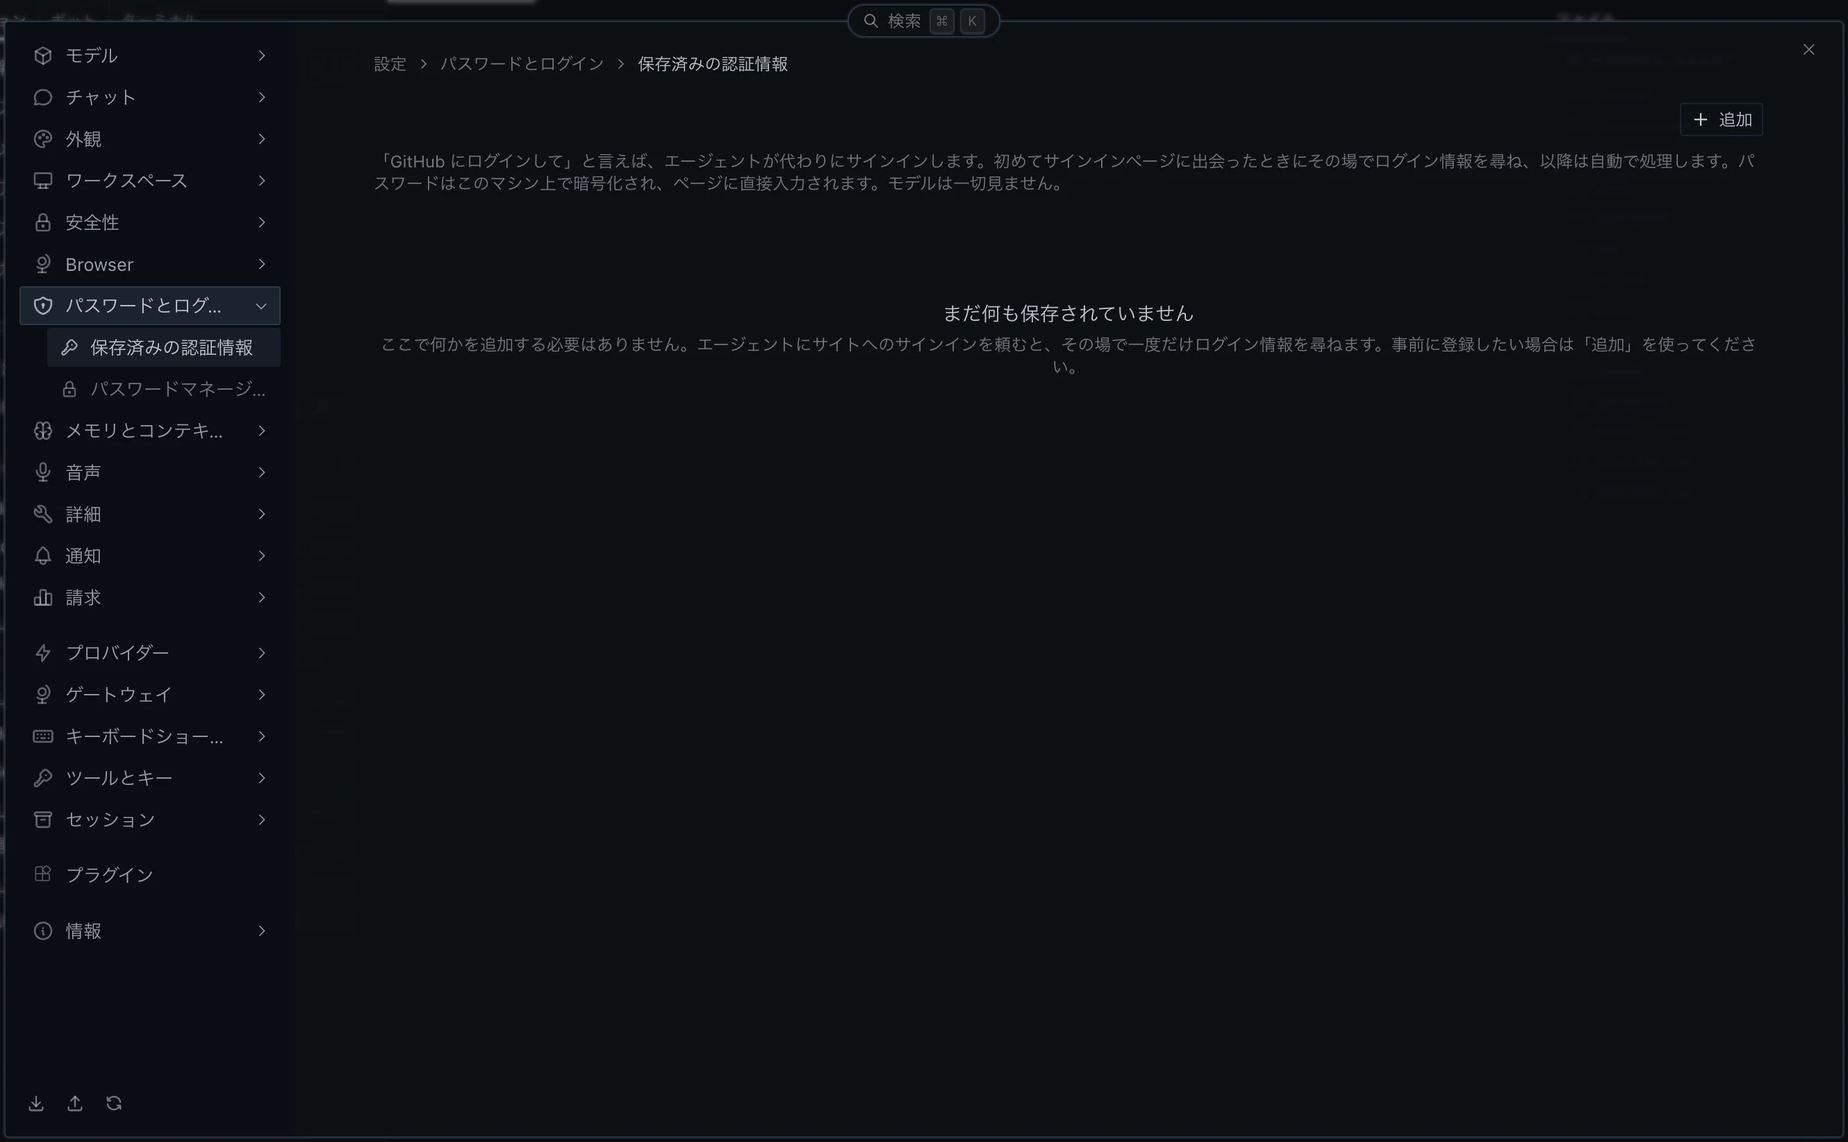
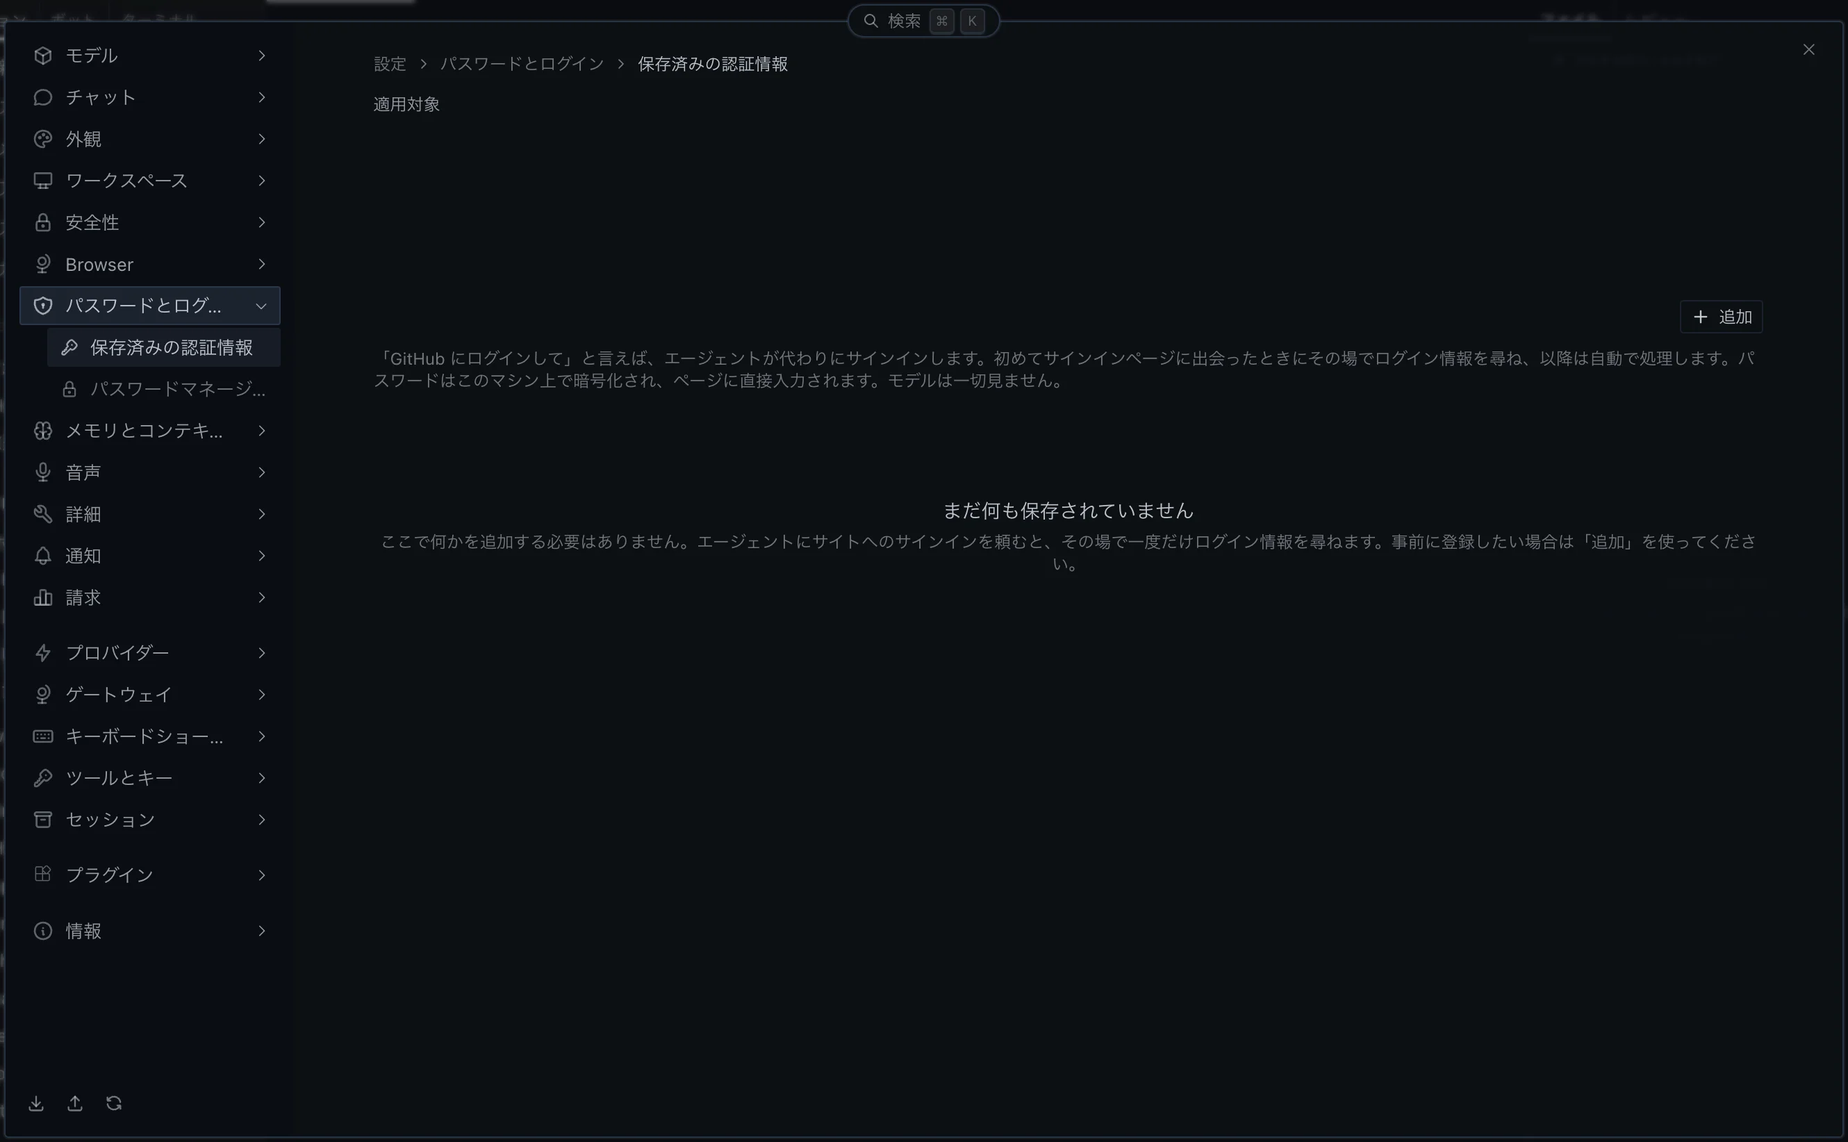
docs(content): v0.23.0 監査の未確認項目を実機で補完
- 接続先をこのマシンのゲートウェイへ切り替えて「Web アクセス」を撮影し、
  ページに画像を追加。初期の公開方法（このネットワーク）と開始前の表示を実機で確定
- 保存済みの認証情報のスクリーンショットを v0.23.0 で撮り直し
- cron の新規作成フォームを撮影し、「見逃した実行」の所在を実機で確認
- 「自分のスキルを作る」はデスクトップのカタログがオプションスキルを含むことを
  ソースで確認し、status を verified に戻した
- 調査根拠と索引の注記、スクリーンショット一覧を更新

diff --git a/src/assets/screenshots/manifest.md b/src/assets/screenshots/manifest.md
@@ -5,7 +5,8 @@ v0.23.0 の Retina 実機キャプチャ（原寸 3600x2338）から切り出し
 （原寸の `[80, 88, 2920, 1888]`、2840x1800 px）。ユーザー固有の値を背景色の単色矩形でマスクし、
 `scripts/hermes-audit/crop_mask.py` で `cwebp -q 85` の WebP にした。幅は 2x のまま（表示時は CSS で 1x 相当に縮める前提）。
 
-`settings-passwords.webp` だけは v0.22.1 の撮影のまま（理由は判断メモ）。
+`settings-passwords.webp`・`settings-web-access.webp`・`cron-new-job.webp` は翌日（2026-11-08 朝）の追加撮影。
+Web アクセスはこのマシンのゲートウェイへ切り替えて撮った（理由は判断メモ）。
 
 | 出力ファイル | 元画像 | 写っている画面 | マスクした箇所 | 推奨 alt テキスト |
 |---|---|---|---|---|
@@ -19,7 +20,8 @@ v0.23.0 の Retina 実機キャプチャ（原寸 3600x2338）から切り出し
 | settings-workspace.webp | 05_workspace_a_0.png | 設定 > ワークスペース > プロジェクトと検出 | 適用対象のチップ一式、作業ディレクトリの絶対パス | 設定のワークスペース画面 |
 | settings-security.webp | 06_safety_a_0.png | 設定 > 安全性 > 承認（承認モード・タイムアウト・MCP 再読み込み・コマンド許可リスト） | 適用対象のチップ一式、コマンド許可リストの値 | 設定の安全性画面 |
 | settings-browser.webp | 07_browser_a_0.png | 設定 > Browser > ブラウザープロファイル（Use My Real Browser Profile） | 適用対象のチップ一式 | 設定の Browser 画面 |
-| settings-passwords.webp | 07v_vault_a_0.png（v0.22.1） | 設定 > パスワードとログイン > 保存済みの認証情報（未保存の空表示） | なし | 設定のパスワードとログイン画面 |
+| settings-passwords.webp | 07v_vault_a_0.png（追加撮影） | 設定 > パスワードとログイン > 保存済みの認証情報（未保存の空表示） | 適用対象のプロファイルチップ一式 | 設定のパスワードとログイン画面 |
+| settings-web-access.webp | 15_webaccess_0.png（追加撮影） | 設定 > Web アクセス（停止中、公開方法「このネットワーク」、開始ボタンは Nous 未サインインで無効） | 説明文と URL 行の LAN アドレス | 設定の Web アクセス画面 |
 | settings-passwords-managers.webp | 07v_vault_b_0.png | 設定 > パスワードとログイン > パスワードマネージャー（1Password / Bitwarden の検出状態） | 適用対象のチップ一式（検出状態は環境依存） | 設定のパスワードマネージャー連携画面 |
 | settings-memory-context.webp | 08_memory_a_0.png | 設定 > メモリとコンテキスト > 永続メモリ | 適用対象のチップ一式 | 設定のメモリとコンテキスト画面 |
 | settings-voice.webp | 09_voice_a_0.png | 設定 > 音声 > 音声会話（Voice Chat Mode・GPT-Live Voice・GPT-Live Persona など） | 適用対象のチップ一式、GPT-Live Voice の選択値（既定の `marin` ではない）、GPT-Live Persona の入力文 | 設定の音声画面 |
@@ -43,6 +45,7 @@ v0.23.0 の Retina 実機キャプチャ（原寸 3600x2338）から切り出し
 | main-sidebar.webp | 50_main_0.png | メイン画面（セッションタブ・左サイドバー・右ペインのファイル） | タブバーのセッション名（既定名は残した）、ピン留め、プロジェクト内のセッション名と日数、プロジェクト名一覧、右ペインのルート名、コンポーザーのモデル選択値、ステータスバーの接続名とワークスペース名 | Hermes Desktop のメイン画面とサイドバー |
 | bots-tab.webp | 51_bots_0.png | メイン画面 ボットタブ（グループチャット一覧・ボット名簿） | グループチャット名・状態文・日数、ゲートウェイ見出しの名前、ボット名簿（アバターと名前）、タブバーのセッション名、右ペインのルート名、モデル選択値、ステータスバーのワークスペース名 | Hermes Desktop のボットタブ |
 | bots-menu.webp | 51_bots_menu_0.png | ボットタブの「+」メニュー（新しいボット／グループチャット／セクション） | bots-tab と同じ箇所 | ボットタブの追加メニュー |
+| cron-new-job.webp | 52_cron_new_0.png（追加撮影） | 新しい Cron ジョブのフォーム（開始点・名前・プロンプト・頻度・配信先・モデル・見逃した実行）。フォームだけを切り出し | なし（ジョブ 0 件のローカルゲートウェイで撮影。保存はしていない） | 新しい Cron ジョブのフォーム |
 | cron-jobs.webp | 52_cron_0.png | スケジュール済みジョブ（ジョブ一覧・詳細・ブループリント一覧） | ジョブ名一覧と検索欄の例示ジョブ名、プロンプト本文、実行履歴、背面のタブバー・サイドバー端・ステータスバー（ジョブ件数とブループリント名は残した） | スケジュール済みジョブの画面 |
 | skills-tools.webp | 53_skills_0.png | スキルとツール > スキル（スキル一覧・詳細） | Configuring の対象名、セッション一覧、右ペインのルート名、ステータスバー（組み込みスキル名は残した） | スキルとツールの画面 |
 | skills-toolset.webp | 57_cap_toolset_0.png | スキルとツール > ツールセット（ツールセットカードと Developer Mode） | Configuring の対象名、呼び出し回数 2 件、セッション一覧、右ペインのルート名、ステータスバー | ツールセットの画面 |
@@ -56,8 +59,10 @@ v0.23.0 の Retina 実機キャプチャ（原寸 3600x2338）から切り出し
 - 設定項目のラベル・説明文・既定値・ボタン・タブ名・サブページ名、公開サービス名（プロバイダー名・プラットフォーム名・
   Connectors のアプリ名・カタログのプラグイン名）、ツールセット名、組み込みスキル名、ブループリント名は残した。
 - 適用対象のチップはプロファイル名（ユーザー値）なので、先頭のチップを含めチップ行全体を背景色で塗った。
-- `settings-passwords.webp` は今回の撮影（`07v_vault_a` / `07v_vault_b` とも）がパスワードマネージャー画面で、
-  保存済みの認証情報画面の写真が無かったため差し替えていない。
+- `settings-passwords.webp` は初回の撮影（`07v_vault_a` / `07v_vault_b` とも）がパスワードマネージャー画面だったため、
+  翌朝に撮り直した。
+- 「Web アクセス」はリモートゲートウェイ接続中はナビに出ないため、接続先を一時的に「This device」へ切り替えて撮り、撮影後に戻した。
+  開始ボタンは押していない。
 - `settings-providers.webp` は `_0` が読み込み中のスケルトンだったため `_1` を使った。`settings-archived-chats.webp` も同じ理由で `_1`。
 - `settings-models-subagents.webp` は `_0` に適用対象チップが残り下端に macOS の音量表示が写っていたため、チップの無い `_1`
   を使い、下端の明るさ表示を背景色で塗った。

diff --git a/vault/06_リファレンス/02_バージョンと調査根拠.md b/vault/06_リファレンス/02_バージョンと調査根拠.md
@@ -40,7 +40,7 @@ verified: '2026-11-08'
 1. **バージョン・コミットの確定**: ソースチェックアウトの git で HEAD が `2bd378ed` であり、タグ `v0.23.0` がこのコミットを直接指すことを確認した（タグより先行するコミットはない）。前回の `297552a9` からは 8,181 コミット進んでいる。実機のステータスバーの表示「クライアント v0.23.0 / バックエンド v0.23.0」と、情報画面の Commit 表示で版の一致を確かめた。
 2. **差分監査の範囲**: `git diff 297552a9..2bd378ed` を、設定サイドバーとモデル・プロバイダー / 外観・メモリ・Browser・セッション / ゲートウェイ・キーボードショートカット・通知・請求・情報・プラグイン / メイン UI・グループチャット・cron・プラグインの自動更新・有料 MCP ツール / 本ガイド各ページの陳腐化しうる記述、の観点に分けて照合した。対象はデスクトップのソース（`apps/desktop/src/`）、日本語翻訳（`apps/desktop/src/i18n/` 配下。今回 `ja.ts` から画面別のファイルへ一部分割された）、既定値定義、コマンドレジストリ、ツール用の環境変数カタログ。あわせて公式リリースノート（`v0.23.0`）を参照し、ノートの記述とソース・実機が食い違う箇所はソース・実機を優先した（例: リリースノートにある `/delegation` コマンドはコアのコマンドレジストリに無い）。
 3. **既定値とコマンドの機械比較**: 前回と同様、`DEFAULT_CONFIG` を AST で安全に評価して JSON 化した値を前回値と機械比較した。`_config_version` は `51` から `52` に上がり、差分は値変更 2 件（`_config_version` と `sessions.auto_prune`）・削除 13 件（`browser.backend` / `browser.camofox.*` / `browser.extension_control.*` など、すべて `browser.*`）・追加 33 件（`webapp.*`・`delegation.backend`・`vault.key_storage`・`worktrees.*` など）。スラッシュコマンドは `COMMAND_REGISTRY` の抽出で 102 件 → 105 件（追加 3・削除 0・変更 1）を確定した。ツールとキーの一覧の元になる環境変数カタログからは `AGENT_BROWSER_ENGINE` / `CAMOFOX_API_KEY` / `CAMOFOX_URL` が外れた（新旧 2 コミットの定義を比較）。
-4. **実機スクリーンショットの照合**: 実機（v0.23.0、日本語 UI、macOS）で、設定サイドバーに表示された全画面のサブページと、メイン画面・ボット・スケジュール済みジョブ・スキルとツールの 4 タブ・メッセージング・アーティファクト・カンバンを撮影し（約 350 枚）、ソース差分の主張と照合した。主な食い違いは 2 件で、どちらも実機を正とした（メインナビはカンバンを含む 6 項目 / プラグインの tier 表示は英語「Official / Verified / Community」のまま）。撮影時はリモートゲートウェイに接続していたため、**「Web アクセス」画面はナビに出ず撮影できなかった**（ソースの表示条件どおり）。この画面の記述は同一コミットのソース（画面定義・日本語ラベル）に基づく。ほかに状態依存で写っていないのは、サブエージェントの既定値が操作できなくなる表示（ルーティングが既定以外のとき）、cron の「停止」「見逃した実行」、インストールダイアログの tier バッジ、使用量バーの黄色の段階、Webapp 専用の「ブラウザー通知」、保存済みの認証情報の一覧。これらもソースのみに基づく。
+4. **実機スクリーンショットの照合**: 実機（v0.23.0、日本語 UI、macOS）で、設定サイドバーに表示された全画面のサブページと、メイン画面・ボット・スケジュール済みジョブ・スキルとツールの 4 タブ・メッセージング・アーティファクト・カンバンを撮影し（約 350 枚）、ソース差分の主張と照合した。主な食い違いは 2 件で、どちらも実機を正とした（メインナビはカンバンを含む 6 項目 / プラグインの tier 表示は英語「Official / Verified / Community」のまま）。初回の撮影はリモートゲートウェイに接続していたため、「Web アクセス」画面はナビに出なかった（ソースの表示条件どおり）。翌日（2026-11-08）に接続先をこのマシンのゲートウェイへ切り替えて、Web アクセス（停止中）、保存済みの認証情報、cron の新規作成フォーム（「見逃した実行」を含む）を追加で撮影した。状態依存で写っていないのは、Web アクセスの開始後の表示、サブエージェントの既定値が操作できなくなる表示（ルーティングが既定以外のとき）、cron の「停止」（実行中のジョブが必要）、インストールダイアログの tier バッジ、使用量バーの黄色の段階、Webapp 専用の「ブラウザー通知」。これらはソースのみに基づく。
 5. **設定画面構成の監査結果**: 設定サイドバーは **19 画面から 20 画面**に変わった。新設は「Web アクセス」（このマシンの Hermes を Webapp としてブラウザーへ配信する）の 1 画面で、ゲートウェイの直後に入る。デスクトップアプリで接続モードが「リモートゲートウェイ」以外のときだけ表示される。「サブエージェント」の子項目は「詳細」から「モデル」へ移り（詳細の子項目は 5 つになった）、ゲートウェイの子項目「このウィンドウ」は「プライマリゲートウェイ」に改名された。20 画面の内訳は、9 つの設定セクション（モデル、チャット、外観、ワークスペース、安全性、Browser、メモリとコンテキスト、音声、詳細）と 11 の独立画面（パスワードとログイン、通知、請求、プロバイダー、ゲートウェイ、Web アクセス、キーボードショートカット、ツールとキー、セッション、プラグイン、情報）である。
 
 ### v0.22.1 監査（2026-10-15）の方法と範囲

diff --git a/vault/03_設定/21_Webアクセス.md b/vault/03_設定/21_Webアクセス.md
@@ -25,8 +25,9 @@ verified: '2026-11-08'
 
 画面の説明文にあるとおり、**サインインした人はこのコンピューターでコマンドを実行できる**。配信するのは自分だけが使う端末・ネットワークに限る。
 
-> [!note] 画面はソースに基づく説明
-> このページの画面表示は、Hermes Desktop のソースコード（設定画面の実装と日本語リソース）に基づいて書いている。実機の画面写真は掲載していない。
+![設定 > Web アクセス 画面](@screenshots/settings-web-access.webp)
+
+停止中の画面。LAN 上のアドレスはマスクしている。開始後の表示（実行中の状態や「停止」ボタン、「独自の URL」の入力欄）は実機では未確認で、ソースコードに基づいて書いている。
 
 ## 表示される条件
 
@@ -39,16 +40,16 @@ verified: '2026-11-08'
 
 ## 画面の構成
 
-上から順に次の要素が並ぶ。
+冒頭に「スマートフォンや別のコンピューターから、Nous アカウントでサインインしてこのコンピューターの Hermes を開きます。サインインした人はこのコンピューターでコマンドを実行できます。」という説明があり、その下に次の要素が並ぶ。
 
 | 要素 | 内容 |
 |---|---|
-| 状態 | 実行中 / 停止中 / 起動中 / 停止処理中 / 再起動が必要 / 利用できません のいずれか |
-| アドレス | 配信中は、ほかのデバイスで開く URL がリンクとして表示される |
-| 公開方法 | 「このネットワーク」と「独自の URL」の切り替え（後述） |
+| Web アクセス（状態） | 見出しの右に状態のバッジ。実行中 / 停止中 / 起動中 / 停止処理中 / 再起動が必要 / 利用できません のいずれか |
+| 公開方法 | 「このネットワーク」と「独自の URL」の切り替え（後述）。初期の選択は「このネットワーク」 |
+| アドレス | ほかのデバイスで開く URL。「このネットワーク」では、このコンピューターの LAN アドレスとポート 9120 の `http://` URL が開始前から表示され、配信中はリンクになる |
 | 操作ボタン | 開始 / 停止。設定を保存したがゲートウェイの再起動が済んでいないときは「ゲートウェイを再起動」 |
 
-開始の前提が満たされていないときは、「先に『プロバイダー』で Nous アカウントにサインインしてください。」と表示される。
+開始の前提が満たされていないときは、アドレスの下に「先に「プロバイダー」で Nous アカウントにサインインしてください。」と表示され、「開始」は押せない。
 
 ### 公開方法
 

diff --git a/vault/11_実践レシピ/04_スケジュール自動化.md b/vault/11_実践レシピ/04_スケジュール自動化.md
@@ -107,7 +107,11 @@ AIへのプロンプトを持たず、スクリプトだけを実行するジョ
 アプリやゲートウェイが止まっていた間に実行時刻を過ぎた繰り返しジョブは、既定では再開後に追いかけて実行されます（`cron.catch_up_missed: true`）。ジョブごとに変えたいときは、ジョブの作成・編集フォームの「見逃した実行」（説明「Hermes が動いていない間に見逃した実行の扱い。」）で「既定の設定に従う」「復帰時に1回だけ実行」「スキップする」から選びます。CLI では `--catch-up on|off` です。
 
 > [!note] 確認状況
-> 「停止」と「見逃した実行」は、デスクトップアプリのソース（`apps/desktop/src/app/cron/` と日本語リソース `ja_cron_control.ts`）で確認した内容です。実機では実行中のジョブと編集フォームを撮影していません。
+![新しい Cron ジョブのフォーム](@screenshots/cron-new-job.webp)
+
+「見逃した実行」は、作成フォームの「モデル」の下にあります（実機で確認）。
+
+> 「停止」は、デスクトップアプリのソース（`apps/desktop/src/app/cron/` と日本語リソース `ja_cron_control.ts`）で確認した内容です。実機では実行中のジョブを撮影していません。
 
 同じエラーで失敗し続けるジョブの通知は、最初の1回のあと6時間は止まり、その後に1回だけ再通知されます（`cron.failure_repeat_alert_hours`、既定 `6`）。実行自体は毎回記録されるので、通知が来なくなっても画面の実行履歴で失敗を確認できます。サイドバーの「CRON ジョブ」セクションにも、次回実行までの残り時間つきでジョブが並びます。
 

diff --git a/vault/11_実践レシピ/01_自分のスキルを作る.md b/vault/11_実践レシピ/01_自分のスキルを作る.md
@@ -17,7 +17,7 @@ platforms:
   - macOS
   - Windows
   - Linux
-status: needs-review
+status: verified
 hermes_version: 0.23.0
 hermes_commit: '2bd378ed'
 verified: '2026-11-08'
